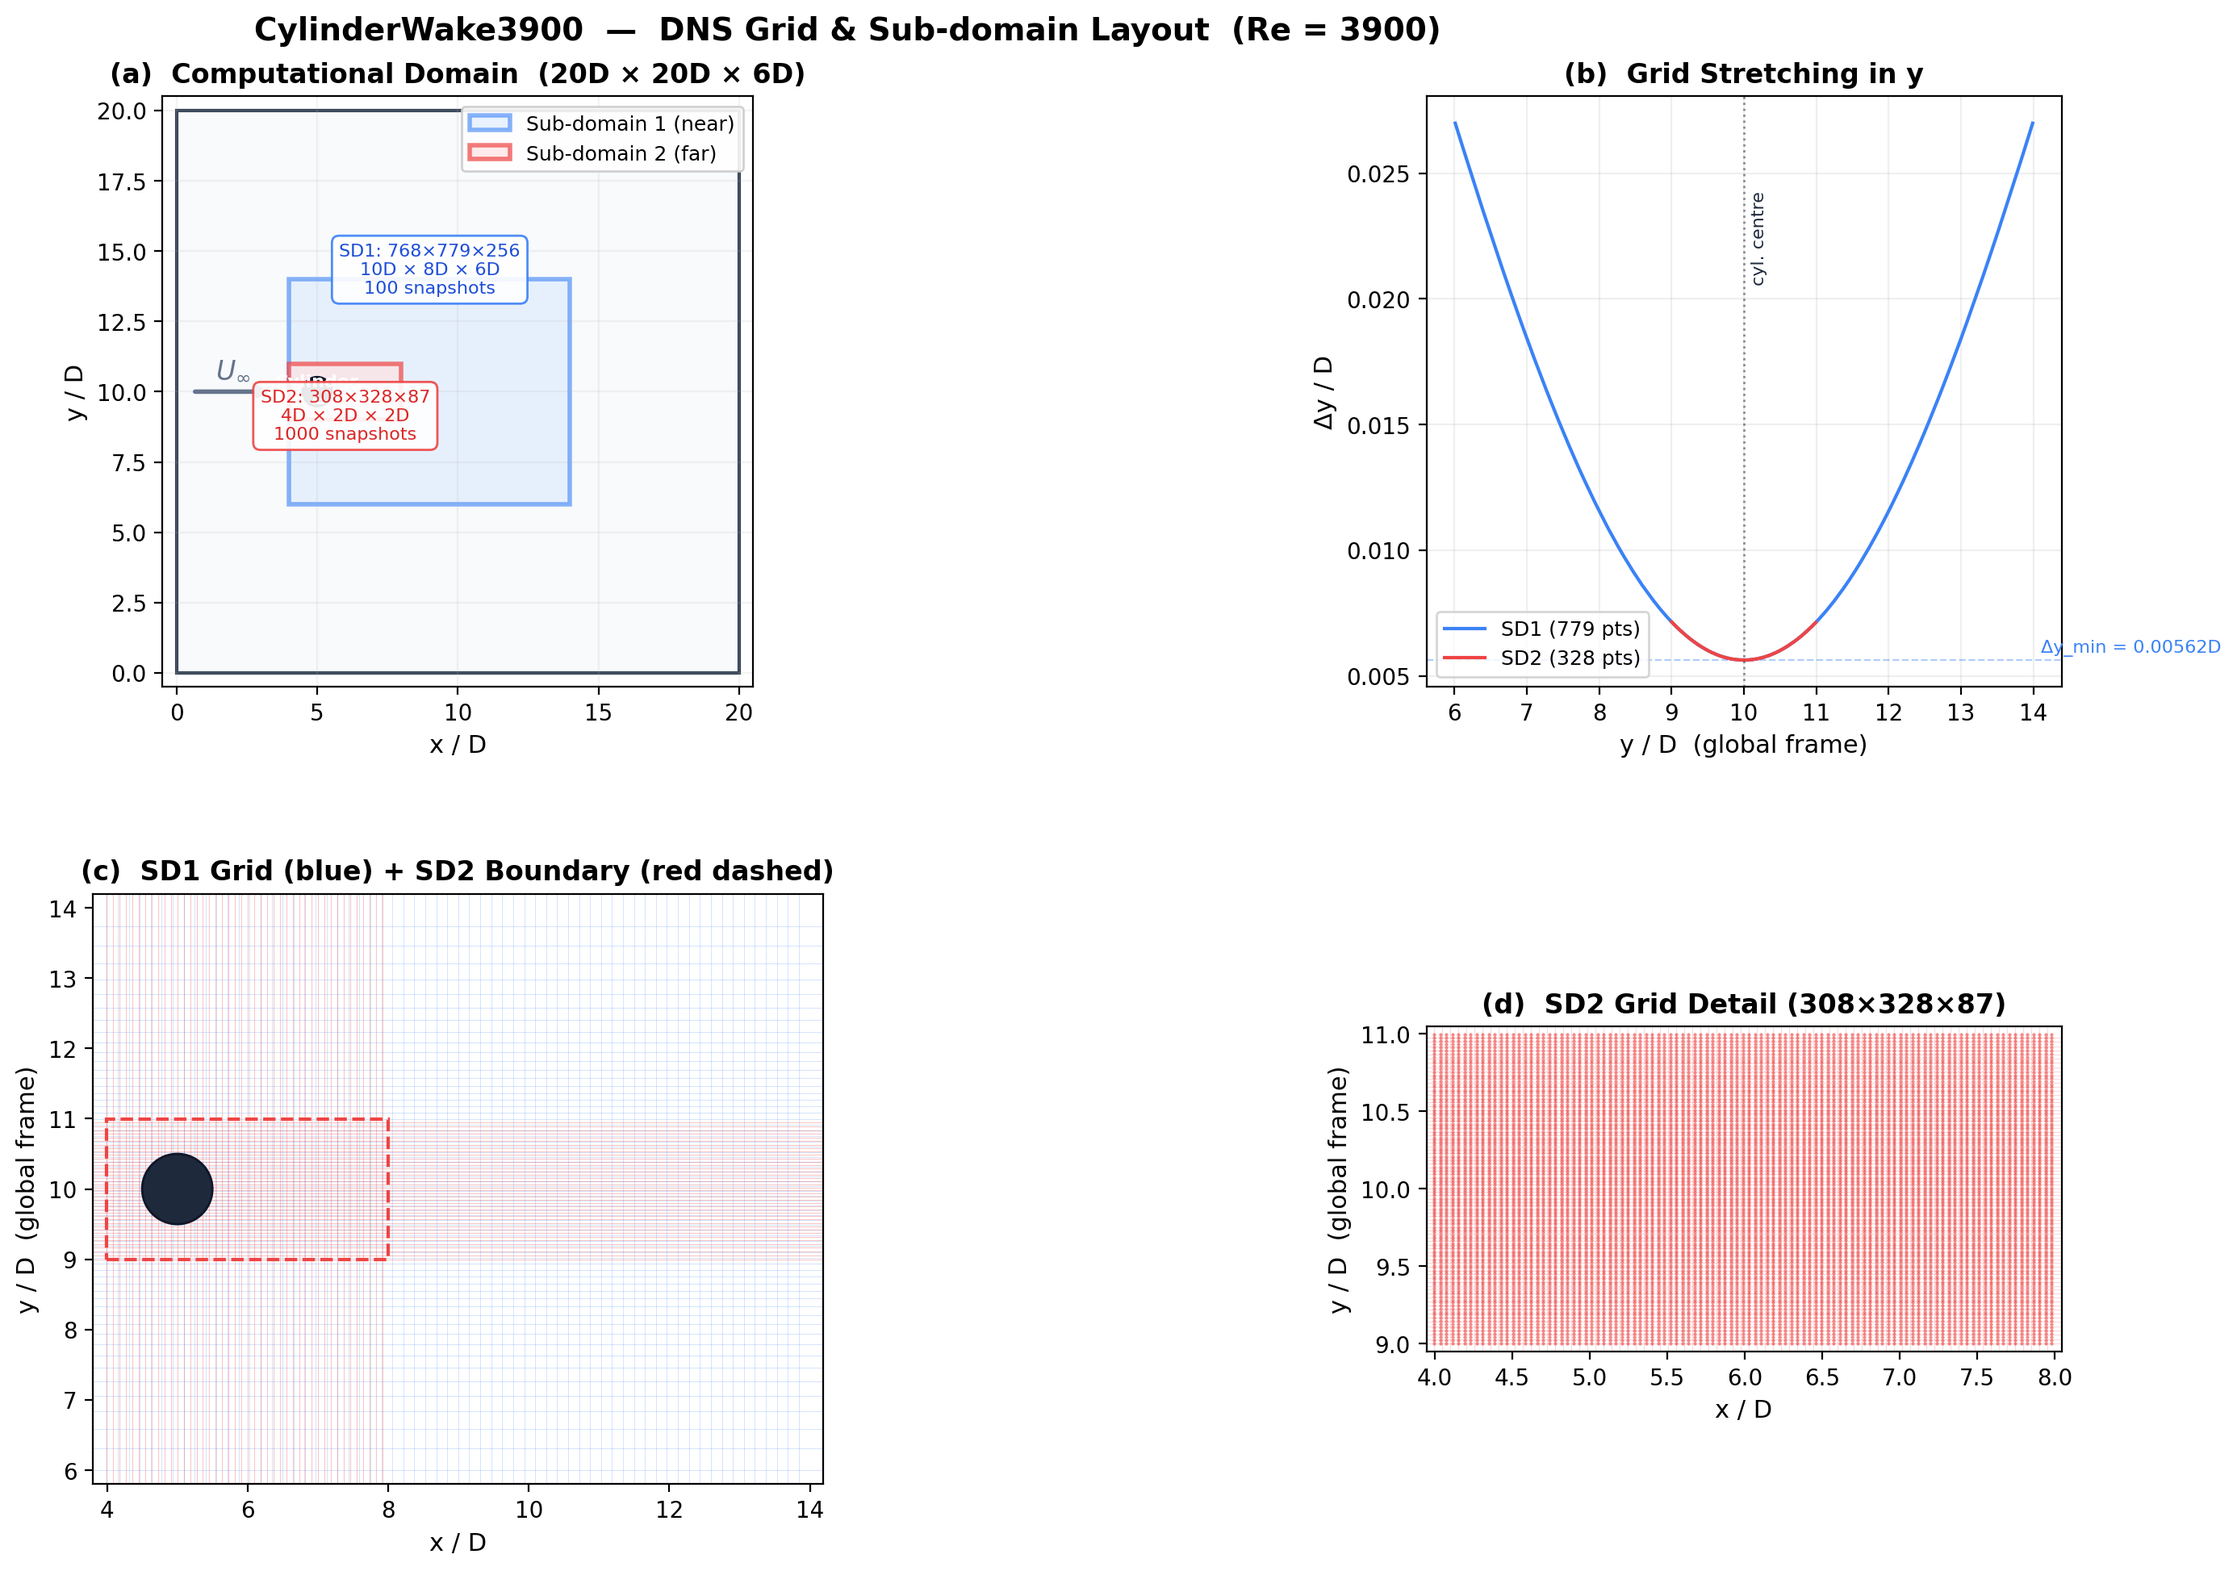
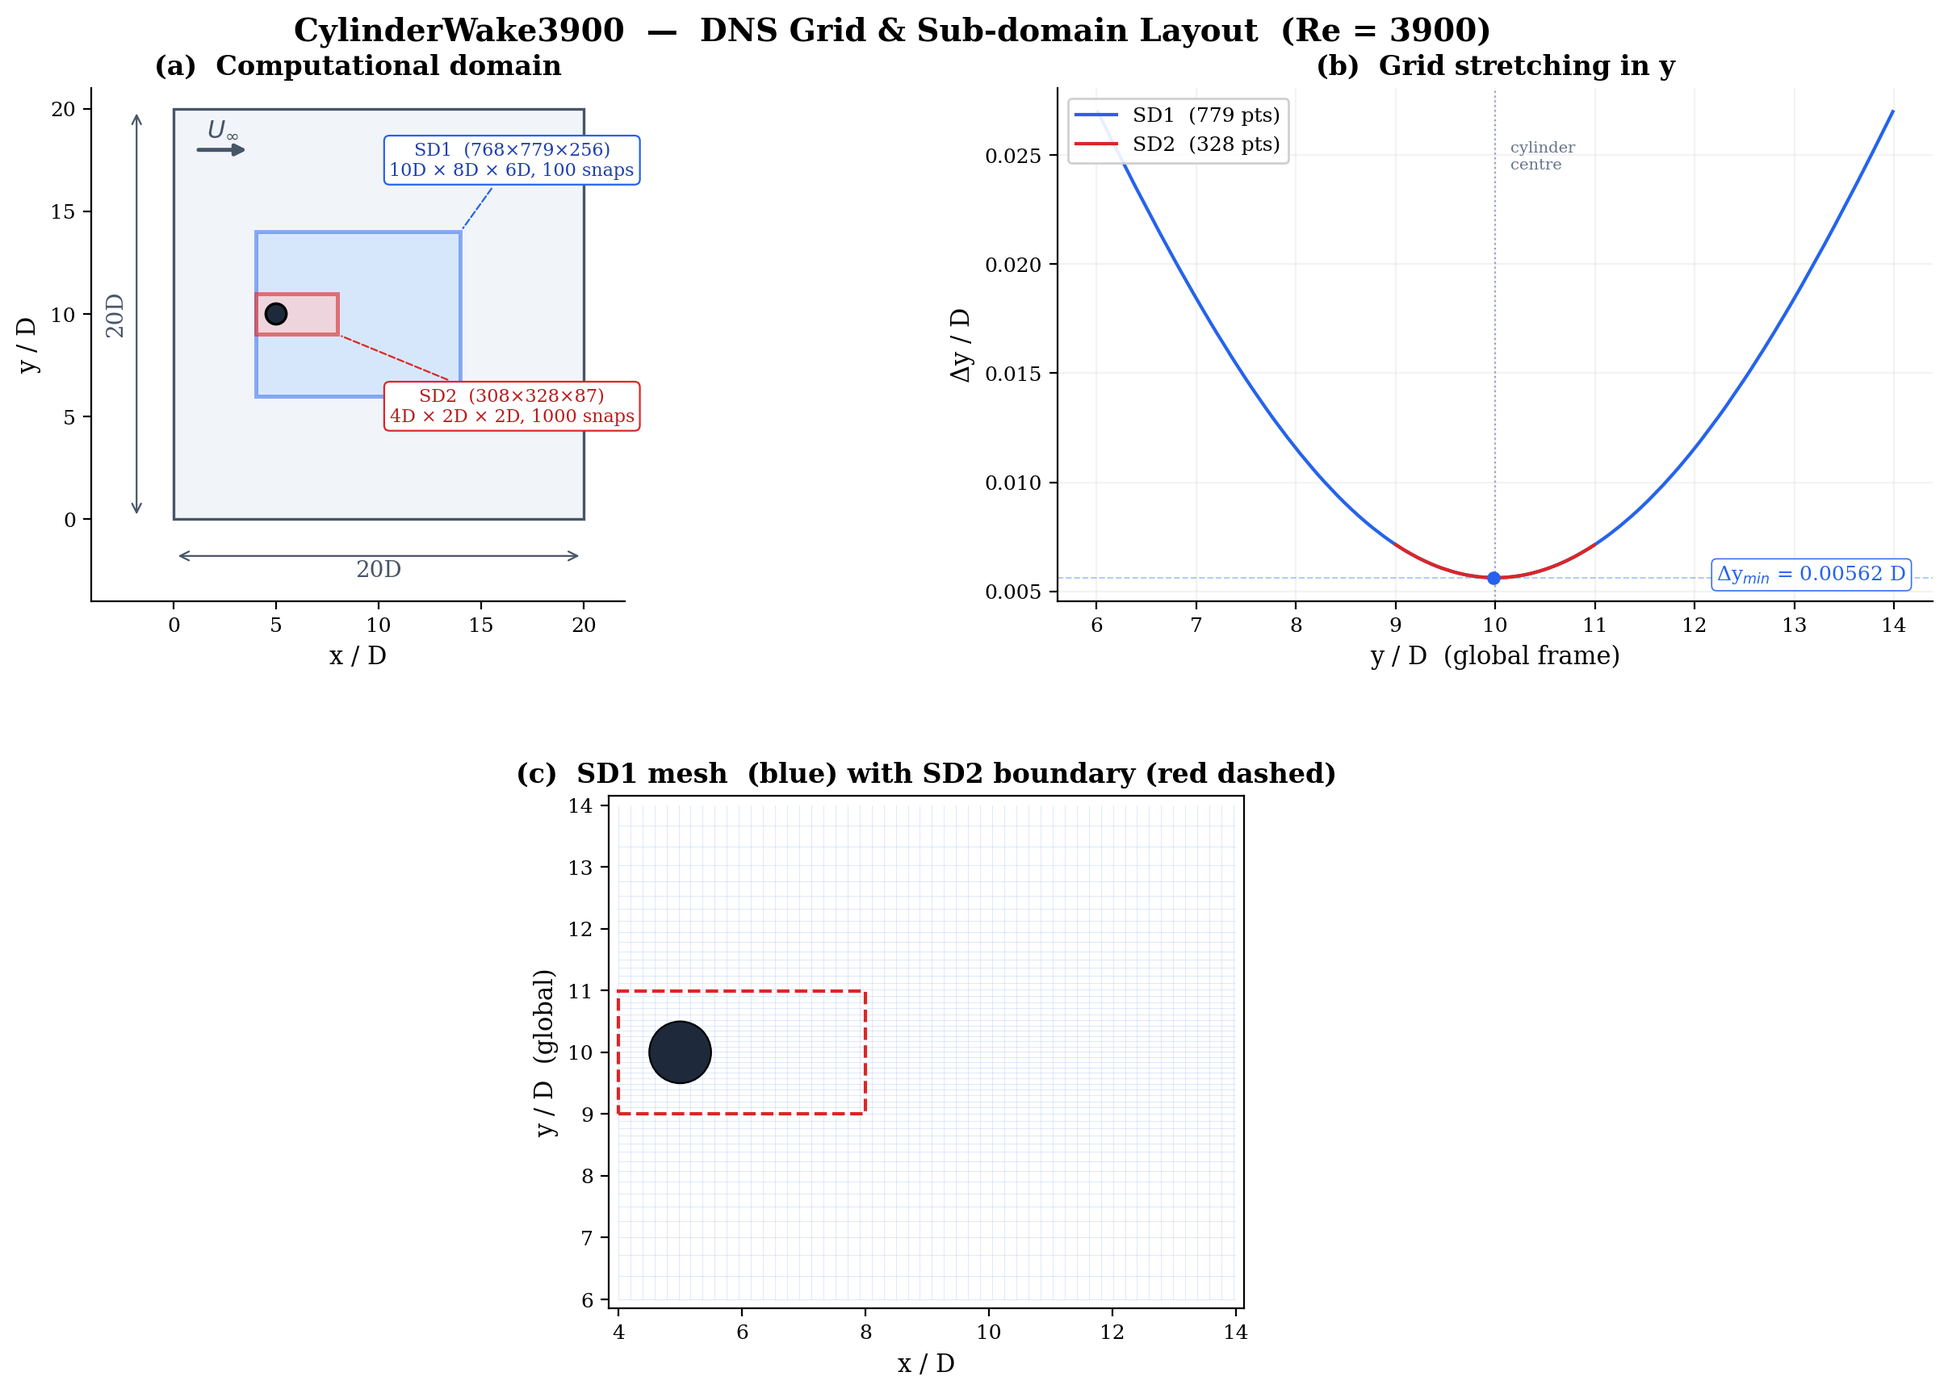
Improve grid preview figure layout and label placement
Fix Δy_min annotation: moved to bottom-right box with dashed reference
line instead of arrow overlapping the curve. Fix 20D dimension labels:
moved further outside the domain box to avoid clipping. Removed
redundant SD2 detail subplot.

diff --git a/generate_preview.py b/generate_preview.py
@@ -5,17 +5,26 @@ Generate a preview figure for the CylinderWake3900 repository.
 Shows:
   (a) Computational domain with both sub-domains and cylinder location
   (b) Grid spacing Δy vs y — highlighting the non-uniform stretching
-  (c) SD1 grid (x–y) detail with every Nth line
-  (d) SD2 grid (x–y) detail with every Nth line
+  (c) SD1 grid (x–y) detail with SD2 boundary
 
 Requires only numpy + matplotlib (no data download needed).
 """
 
 import numpy as np
 import matplotlib.pyplot as plt
-from matplotlib.patches import Circle, FancyArrowPatch, Rectangle
-from matplotlib.collections import LineCollection
+from matplotlib.patches import Circle, Rectangle
 from pathlib import Path
+
+plt.rcParams.update({
+    "font.family": "serif",
+    "font.size": 10,
+    "axes.labelsize": 11,
+    "axes.titlesize": 12,
+    "xtick.labelsize": 9,
+    "ytick.labelsize": 9,
+    "legend.fontsize": 9,
+    "figure.dpi": 150,
+})
 
 # ── Load bundled grid coordinates ─────────────────────────────────────
 GRID_NPZ = Path(__file__).parent / "cylinderwake" / "grid_coordinates.npz"
@@ -34,166 +43,172 @@ LX, LY, LZ = 20.0, 20.0, 6.0
 CYL_X, CYL_Y = 5.0, 10.0  # cylinder center in global frame
 
 # ── Figure ────────────────────────────────────────────────────────────
-fig = plt.figure(figsize=(16, 10), facecolor="white")
+fig = plt.figure(figsize=(14, 9), facecolor="white")
 
-# Use gridspec for layout
-gs = fig.add_gridspec(2, 3, hspace=0.35, wspace=0.35,
-                      left=0.06, right=0.97, top=0.93, bottom=0.07)
+gs = fig.add_gridspec(2, 2, hspace=0.38, wspace=0.30,
+                      left=0.07, right=0.96, top=0.92, bottom=0.08)
 
-# ── (a) Full domain overview ──────────────────────────────────────────
-ax0 = fig.add_subplot(gs[0, 0:2])
+# ══════════════════════════════════════════════════════════════════════
+# (a) Full domain overview
+# ══════════════════════════════════════════════════════════════════════
+ax0 = fig.add_subplot(gs[0, 0])
 
-# Full domain
-full_rect = Rectangle((0, 0), LX, LY, linewidth=1.5, edgecolor="#334155",
-                       facecolor="#f8fafc", zorder=0)
+# Full domain box
+full_rect = Rectangle((0, 0), LX, LY, linewidth=1.2, edgecolor="#475569",
+                       facecolor="#f1f5f9", zorder=0)
 ax0.add_patch(full_rect)
 
-# SD1 (near-wake)
-sd1_rect = Rectangle((x1[0], y1g[0]), x1[-1]-x1[0], y1g[-1]-y1g[0],
-                      linewidth=2, edgecolor="#3b82f6", facecolor="#dbeafe",
-                      alpha=0.6, label="Sub-domain 1 (near)", zorder=1)
+# SD1
+sd1_rect = Rectangle((x1[0], y1g[0]), x1[-1] - x1[0], y1g[-1] - y1g[0],
+                      linewidth=1.8, edgecolor="#2563eb", facecolor="#bfdbfe",
+                      alpha=0.5, zorder=1)
 ax0.add_patch(sd1_rect)
 
-# SD2 (far-wake)
-sd2_rect = Rectangle((x2[0], y2g[0]), x2[-1]-x2[0], y2g[-1]-y2g[0],
-                      linewidth=2, edgecolor="#ef4444", facecolor="#fee2e2",
-                      alpha=0.7, label="Sub-domain 2 (far)", zorder=2)
+# SD2
+sd2_rect = Rectangle((x2[0], y2g[0]), x2[-1] - x2[0], y2g[-1] - y2g[0],
+                      linewidth=1.8, edgecolor="#dc2626", facecolor="#fecaca",
+                      alpha=0.6, zorder=2)
 ax0.add_patch(sd2_rect)
 
 # Cylinder
-cyl = Circle((CYL_X, CYL_Y), 0.5, facecolor="#1e293b", edgecolor="#0f172a",
-             linewidth=1.5, zorder=3)
+cyl = Circle((CYL_X, CYL_Y), 0.5, facecolor="#1e293b", edgecolor="black",
+             linewidth=1.2, zorder=3)
 ax0.add_patch(cyl)
-ax0.annotate("Cylinder\n(D = 1)", (CYL_X, CYL_Y), fontsize=8,
-             ha="center", va="center", color="white", fontweight="bold")
 
-# Flow arrow
-ax0.annotate("", xy=(3.5, 10), xytext=(0.5, 10),
-             arrowprops=dict(arrowstyle="-|>", color="#64748b", lw=2))
-ax0.text(2.0, 10.5, r"$U_\infty$", fontsize=12, ha="center", color="#64748b")
+# Flow arrow — placed well above the geometry
+ax0.annotate("", xy=(3.8, 18), xytext=(1.0, 18),
+             arrowprops=dict(arrowstyle="-|>", color="#475569", lw=1.8))
+ax0.text(2.4, 18.7, r"$U_\infty$", fontsize=11, ha="center", color="#475569")
 
-# Annotations
-ax0.text(9, 13.5, f"SD1: {len(x1)}×{len(y1)}×{len(z1)}\n10D × 8D × 6D\n100 snapshots",
-         fontsize=8, color="#1d4ed8", ha="center",
-         bbox=dict(boxstyle="round,pad=0.4", facecolor="white", edgecolor="#3b82f6", alpha=0.9))
-ax0.text(6, 8.3, f"SD2: {len(x2)}×{len(y2)}×{len(z2)}\n4D × 2D × 2D\n1000 snapshots",
-         fontsize=8, color="#dc2626", ha="center",
-         bbox=dict(boxstyle="round,pad=0.4", facecolor="white", edgecolor="#ef4444", alpha=0.9))
+# Labels outside the boxes using annotation lines
+ax0.annotate(
+    f"SD1  ({len(x1)}×{len(y1)}×{len(z1)})\n10D × 8D × 6D, 100 snaps",
+    xy=(x1[-1], y1g[-1]), xytext=(16.5, 17.5),
+    fontsize=8, color="#1e40af", ha="center", va="center",
+    bbox=dict(boxstyle="round,pad=0.3", fc="white", ec="#2563eb", lw=0.8),
+    arrowprops=dict(arrowstyle="-", color="#2563eb", lw=0.8, ls="--"),
+)
 
-ax0.set_xlim(-0.5, LX + 0.5)
-ax0.set_ylim(-0.5, LY + 0.5)
-ax0.set_xlabel("x / D", fontsize=11)
-ax0.set_ylabel("y / D", fontsize=11)
-ax0.set_title("(a)  Computational Domain  (20D × 20D × 6D)", fontsize=12, fontweight="bold")
+ax0.annotate(
+    f"SD2  ({len(x2)}×{len(y2)}×{len(z2)})\n4D × 2D × 2D, 1000 snaps",
+    xy=(x2[-1], y2g[0]), xytext=(16.5, 5.5),
+    fontsize=8, color="#b91c1c", ha="center", va="center",
+    bbox=dict(boxstyle="round,pad=0.3", fc="white", ec="#dc2626", lw=0.8),
+    arrowprops=dict(arrowstyle="-", color="#dc2626", lw=0.8, ls="--"),
+)
+
+# Domain size labels — horizontal (bottom)
+ax0.annotate("", xy=(0, -1.8), xytext=(LX, -1.8),
+             arrowprops=dict(arrowstyle="<->", color="#475569", lw=0.8))
+ax0.text(LX / 2, -2.8, "20D", fontsize=10, ha="center", color="#475569")
+
+# Domain size labels — vertical (left)
+ax0.annotate("", xy=(-1.8, 0), xytext=(-1.8, LY),
+             arrowprops=dict(arrowstyle="<->", color="#475569", lw=0.8))
+ax0.text(-2.8, LY / 2, "20D", fontsize=10, ha="center", va="center",
+         color="#475569", rotation=90)
+
+ax0.set_xlim(-4, 22)
+ax0.set_ylim(-4, 21)
+ax0.set_xlabel("x / D")
+ax0.set_ylabel("y / D")
+ax0.set_title("(a)  Computational domain", fontweight="bold")
 ax0.set_aspect("equal")
-ax0.legend(loc="upper right", fontsize=9, framealpha=0.9)
-ax0.grid(True, alpha=0.15)
+ax0.grid(False)
+ax0.spines["top"].set_visible(False)
+ax0.spines["right"].set_visible(False)
 
-# ── (b) Grid spacing Δy ──────────────────────────────────────────────
-ax1 = fig.add_subplot(gs[0, 2])
+
+# ══════════════════════════════════════════════════════════════════════
+# (b) Grid spacing Δy vs y
+# ══════════════════════════════════════════════════════════════════════
+ax1 = fig.add_subplot(gs[0, 1])
 
 dy1 = np.diff(y1)
-y1_mid = 0.5 * (y1[:-1] + y1[1:])
+y1_mid = 0.5 * (y1[:-1] + y1[1:]) + Y_OFFSET
 
-ax1.plot(y1_mid + Y_OFFSET, dy1, "-", color="#3b82f6", linewidth=1.5,
-         label=f"SD1 ({len(y1)} pts)")
-ax1.axhline(dy1.min(), color="#3b82f6", ls="--", alpha=0.4, linewidth=0.8)
-ax1.text(14.1, dy1.min() + 0.0003, f"Δy_min = {dy1.min():.5f}D",
-         fontsize=8, color="#3b82f6")
+ax1.plot(y1_mid, dy1, "-", color="#2563eb", linewidth=1.5,
+         label=f"SD1  ({len(y1)} pts)")
+
+# Δy_min annotation — horizontal dashed line + text in the right margin
+imin = np.argmin(dy1)
+ax1.plot(y1_mid[imin], dy1[imin], "o", color="#2563eb", ms=5, zorder=5)
+ax1.axhline(dy1.min(), color="#2563eb", ls="--", alpha=0.35, lw=0.7)
+ax1.text(0.97, 0.03, f"Δy$_{{min}}$ = {dy1.min():.5f} D",
+         transform=ax1.transAxes, fontsize=9, color="#2563eb",
+         ha="right", va="bottom",
+         bbox=dict(boxstyle="round,pad=0.25", fc="white", ec="#2563eb",
+                   lw=0.6, alpha=0.9))
 
 # SD2 y-spacing
 dy2 = np.diff(y2)
-y2_mid = 0.5 * (y2[:-1] + y2[1:])
-ax1.plot(y2_mid + Y_OFFSET, dy2, "-", color="#ef4444", linewidth=1.5,
-         label=f"SD2 ({len(y2)} pts)")
+y2_mid = 0.5 * (y2[:-1] + y2[1:]) + Y_OFFSET
+ax1.plot(y2_mid, dy2, "-", color="#dc2626", linewidth=1.5,
+         label=f"SD2  ({len(y2)} pts)")
 
-# Mark cylinder center
-ax1.axvline(CYL_Y, color="#1e293b", ls=":", alpha=0.5, linewidth=1)
-ax1.text(CYL_Y + 0.1, dy1.max() * 0.9, "cyl. centre", fontsize=8,
-         color="#1e293b", rotation=90, va="top")
+# Cylinder centre
+ax1.axvline(CYL_Y, color="#94a3b8", ls=":", lw=0.8, zorder=0)
+ax1.text(CYL_Y + 0.15, dy1.max() * 0.95, "cylinder\ncentre",
+         fontsize=7, color="#64748b", va="top")
 
-ax1.set_xlabel("y / D  (global frame)", fontsize=11)
-ax1.set_ylabel("Δy / D", fontsize=11)
-ax1.set_title("(b)  Grid Stretching in y", fontsize=12, fontweight="bold")
-ax1.legend(fontsize=9)
-ax1.grid(True, alpha=0.2)
+ax1.set_xlabel("y / D  (global frame)")
+ax1.set_ylabel("Δy / D")
+ax1.set_title("(b)  Grid stretching in y", fontweight="bold")
+ax1.legend(loc="upper left", framealpha=0.9)
+ax1.grid(True, alpha=0.15)
+ax1.spines["top"].set_visible(False)
+ax1.spines["right"].set_visible(False)
 
-# ── (c) SD1 grid detail ──────────────────────────────────────────────
-ax2 = fig.add_subplot(gs[1, 0:2])
 
-# Plot every Nth grid line to avoid visual clutter
-nx_skip = max(1, len(x1) // 60)
-ny_skip = max(1, len(y1) // 60)
+# ══════════════════════════════════════════════════════════════════════
+# (c) SD1 grid (x–y plane) — spans full bottom row
+# ══════════════════════════════════════════════════════════════════════
+ax2 = fig.add_subplot(gs[1, :])
 
 # Vertical lines (x = const)
+nx_skip = max(1, len(x1) // 50)
 for i in range(0, len(x1), nx_skip):
-    ax2.axvline(x1[i], color="#3b82f6", alpha=0.25, linewidth=0.3)
-# Horizontal lines (y = const)
+    ax2.plot([x1[i], x1[i]], [y1g[0], y1g[-1]],
+             color="#2563eb", alpha=0.2, linewidth=0.25)
+
+# Horizontal lines (y = const) — these show the stretching
+ny_skip = max(1, len(y1) // 50)
 for j in range(0, len(y1), ny_skip):
-    ax2.axhline(y1g[j], color="#3b82f6", alpha=0.25, linewidth=0.3)
-
-# Overlay SD2 grid with denser lines
-nx2_skip = max(1, len(x2) // 40)
-ny2_skip = max(1, len(y2) // 40)
-for i in range(0, len(x2), nx2_skip):
-    ax2.axvline(x2[i], ymin=0, ymax=1, color="#ef4444", alpha=0.3, linewidth=0.4)
-for j in range(0, len(y2), ny2_skip):
-    ax2.axhline(y2g[j], xmin=0, xmax=1, color="#ef4444", alpha=0.3, linewidth=0.4)
-
-# Cylinder
-cyl2 = Circle((CYL_X, CYL_Y), 0.5, facecolor="#1e293b", edgecolor="#0f172a",
-              linewidth=1, zorder=5)
-ax2.add_patch(cyl2)
+    ax2.plot([x1[0], x1[-1]], [y1g[j], y1g[j]],
+             color="#2563eb", alpha=0.2, linewidth=0.25)
 
 # SD2 boundary
-sd2_rect2 = Rectangle((x2[0], y2g[0]), x2[-1]-x2[0], y2g[-1]-y2g[0],
-                       linewidth=1.5, edgecolor="#ef4444", facecolor="none",
-                       linestyle="--", zorder=4)
-ax2.add_patch(sd2_rect2)
+sd2_b = Rectangle((x2[0], y2g[0]), x2[-1] - x2[0], y2g[-1] - y2g[0],
+                   linewidth=1.5, edgecolor="#dc2626", facecolor="none",
+                   linestyle="--", zorder=4)
+ax2.add_patch(sd2_b)
 
-ax2.set_xlim(x1[0] - 0.2, x1[-1] + 0.2)
-ax2.set_ylim(y1g[0] - 0.2, y1g[-1] + 0.2)
-ax2.set_xlabel("x / D", fontsize=11)
-ax2.set_ylabel("y / D  (global frame)", fontsize=11)
-ax2.set_title("(c)  SD1 Grid (blue) + SD2 Boundary (red dashed)", fontsize=12, fontweight="bold")
+# Cylinder
+cyl2 = Circle((CYL_X, CYL_Y), 0.5, facecolor="#1e293b", edgecolor="black",
+              linewidth=0.8, zorder=5)
+ax2.add_patch(cyl2)
+
+ax2.set_xlim(x1[0] - 0.15, x1[-1] + 0.15)
+ax2.set_ylim(y1g[0] - 0.15, y1g[-1] + 0.15)
+ax2.set_xlabel("x / D")
+ax2.set_ylabel("y / D  (global)")
+ax2.set_title("(c)  SD1 mesh  (blue) with SD2 boundary (red dashed)",
+              fontweight="bold")
 ax2.set_aspect("equal")
 ax2.grid(False)
 
-# ── (d) SD2 zoomed grid ──────────────────────────────────────────────
-ax3 = fig.add_subplot(gs[1, 2])
-
-# Show actual grid points as a scatter
-# Subsample to avoid too many points
-xsub = x2[::3]
-ysub = y2[::3]
-XX, YY = np.meshgrid(xsub, ysub + Y_OFFSET)
-ax3.scatter(XX.ravel(), YY.ravel(), s=0.3, color="#ef4444", alpha=0.6)
-
-# Show grid lines
-for i in range(0, len(x2), 4):
-    ax3.axvline(x2[i], color="#ef4444", alpha=0.2, linewidth=0.4)
-for j in range(0, len(y2), 4):
-    ax3.axhline(y2g[j], color="#ef4444", alpha=0.2, linewidth=0.4)
-
-ax3.set_xlim(x2[0] - 0.05, x2[-1] + 0.05)
-ax3.set_ylim(y2g[0] - 0.05, y2g[-1] + 0.05)
-ax3.set_xlabel("x / D", fontsize=11)
-ax3.set_ylabel("y / D  (global frame)", fontsize=11)
-ax3.set_title(f"(d)  SD2 Grid Detail ({len(x2)}×{len(y2)}×{len(z2)})", fontsize=12, fontweight="bold")
-ax3.set_aspect("equal")
-ax3.grid(False)
 
 # ── Suptitle ──────────────────────────────────────────────────────────
 fig.suptitle("CylinderWake3900  —  DNS Grid & Sub-domain Layout  (Re = 3900)",
-             fontsize=14, fontweight="bold", y=0.98)
+             fontsize=14, fontweight="bold", y=0.97)
 
-out_path = Path(__file__).parent / "docs" / "grid_preview.png"
+# Save
+out_path = Path(__file__).parent / "grid_preview.png"
 fig.savefig(out_path, dpi=200, bbox_inches="tight", facecolor="white")
 print(f"Saved: {out_path}")
 
-# Also save to repo root for README
-root_path = Path(__file__).parent / "grid_preview.png"
-fig.savefig(root_path, dpi=200, bbox_inches="tight", facecolor="white")
-print(f"Saved: {root_path}")
+out_docs = Path(__file__).parent / "docs" / "grid_preview.png"
+fig.savefig(out_docs, dpi=200, bbox_inches="tight", facecolor="white")
+print(f"Saved: {out_docs}")
 
 plt.close()
